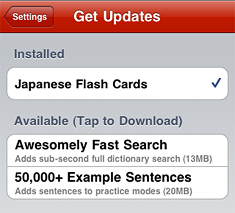
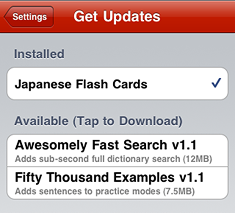
Additional tweaking of updater assets. Some changes to view con labels

diff --git a/jFlash/Assets/plugin-resources/release-notes-1.1.html b/jFlash/Assets/plugin-resources/release-notes-1.1.html
@@ -6,46 +6,57 @@
 <body style="background-color:transparent;">
 
 <div id="release-notes">
-  <h2>Update Dictionary (30MB)</h2>
-  <p>Thanks for Awesomely upgrading to Japanese Flash 1.1!  Now that you have 1.1, you'll need to update your dictionary.</p>
+  <img src="update-dictionary.png" class="title" alt="Update Dictionary"/>
+  <small>Version 1.1, 30MB</small>
+  <p>Thanks for Awesomely upgrading to Japanese Flash 1.1!  Now you have 1.1, you'll need to update your dictionary.</p>
   <p>
-  <strong class="red">Please download &amp; install the latest dictionary by pressing &quot;Start&quot; below.</strong>
+  <strong class="red">Please download &amp; install the latest dictionary by pressing &quot;Start Download&quot;.</strong>
   </p>
-  <p>You'll need a network connection during the download phase, and the entire update should take between 3-5 minutes (we recommend you use WiFi if your carrier charges you for bandwidth usage on 3G).
-  </p>
-  <p>
-  If now is not a convenient time, tap <em>Cancel</em>, and go to the <em>Settings</em> tab when you're ready.
-  </p>
-  <p>
-  You may want to know why you're downloading this update separately. That's a great question. Since you are Awesome (you purchased Japanese Flash after all!), we'll share <em>Our Evil Master Plan</em>.
+  <p>You'll need a network connection during the download phase. The whole process should take between 3-5 minutes (we recommend 
+  using WiFi if you pay for excess data usage on 3G).
   </p>
   <p>
-  We separated the dictionary, example sentences, and other components into &quot;plug-ins&quot; to make it easier to update the data as it changes.
+  If now is not convenient, you can tap <strong>Cancel</strong> for now. When you're ready, go to <strong>Settings</strong> and
+  press the <strong>Update</strong> button on the top right.
+  </p>
+
+  <h3>Why do I have to download something?</h3>
+  <p>
+  That's a great question. Since you are Awesome- after all you purchased Japanese Flash - we'll share our master plan.
   </p>
   <p>
-  For example, if someone finds an error in the dictionary, wouldn't it be great if it was fixed automatically? We are not there yet, but this release is a step in that direction.
+  We have separated the data files (dictionary search, example sentences, etc) into downloadble updates to make it easier to
+  deliver new data as it changes.</p>
+  <p>
+  We all know language changes - so your iPhone study application needs to change with it. So if we receive reports of errors in the dictionary, we 
+  will be able to roll out changes to everyone automatically, without re-installing the application. Cool, right?
   </p>
   <p>
-  So, here are the full details of the new features in Japanese Flash 1.1:
+  That platform isn't quite ready yet - but we are working on it - and this change was a key step along the way.
+  </p>
+  <h3>What's New in Japanese Flash Version 1.1</h3>
+  <p>
   <ul>
   <li>
     <strong>Inline Example Sentences</strong>
     <p>
-    While you are studying, swipe the card to see example sentences!  You'll need to download the example sentences plug-in.  Tap <em>Settings</em>, open the <em>Plugins</em>; section, and tap to download &amp; install the example sentences after this update.</p>
+    When studying, swipe the card to see example sentences. Not every card has sentences, although there are 50,000+ sentences
+    covering 17,000+ cards. You'll need to download the example sentences update. Tap <strong>Settings > Extras</strong> and tap to 
+    download &amp; install the example sentences after this update.</p>
   </li>
   <li>
-    <strong>Custom Study Settings</strong>
+    <strong>Custom Difficulty</strong>
     <p>
-    Some users told us that cards they know are shown too frequently.  Other users told us that somewhat-known cards don't appear often enough. 
-    We make everyone happy by giving you control: tap &quot;Settings&quot; to adjust how Japanese Flash quizzes.  You can set it to <em>Easy</em>, <em>Medium</em>, <em>Hard</em>, or choose your own custom settings.
+    Some users said cards they know are shown too frequently. Other users told us that somewhat-known cards don't appear often enough! 
+    We want everyone to be happy. Tap <strong>Settings > Difficulty</strong> to adjust the difficulty to suit you.
     </p>
   </li>
   <li>
     <strong>Improved Dictionary Quality &amp; Feedback Tool</strong>
     <p>
-    We've improved the quality of the dictionary (what you're downloading right now!).  We've removed a few duplicate cards and fixed a few &quot;word sense&quot; errors.
-    Best of all, we've turned the editorial hand over to you, the user.  The <em>Add To Set</em> button on the Practice screen is now titled <em>Action</em>, and it
-    does two things:
+    We've improved the quality of the dictionary, removed some duplicates and added about 2,000 new entries.
+    Best of all, we've turned the editorial control over to you!<br/><br/>The <strong>Add To Set</strong> button on the practice
+    screen is now titled <strong>Action</strong>, and it does two things:
     </p>
     <p>
     <img src="jflash-1.1-features-actionsheet.png" alt="Action Menu" />
@@ -60,20 +71,20 @@
   <li>
     <strong>Smaller Download Size</strong>
     <p>
-    By creating a plug-in structure, the base of Japanese Flash is now small enough to download &quot;over the air&quot; on a 3G network.  Now, anyone can download 
-    Japanese Flash anywhere, anytime!  Help us spread the word - the more people using JFlash, the stronger the dictionary will become!
+    By creating a system of updates, Japanese Flash app is now small enough to download &quot;over the air&quot; on a 3G network.
+    Now anyone can download Japanese Flash anywhere, anytime! Please spread the word.
     </p>
   </li>
   <li>
     <strong>Follow Us</strong>
     <p>
-    Okay, so it's not really a feature - but if you want to take a break from studying, check out the <em>Follow Us</em> section on the <em>Settings</em> tab.  You can 
-    follow us on Twitter, or view Japanese Flash on Facebook.  We update frequently with what we're doing - if you want to know what'll make it into the next version!
+    Okay, so it's not really a feature - but if you want to take a break from studying, check out  <strong>Settings > Follow Us</strong>.
+    You can follow us on Twitter or join us on Facebook. We'll let you know in advance what's going it into the next version!
     </p>
   </li>
   </ul>
   </p>
-	<p>
+  <p>
   </p>
 </div>
 

diff --git a/jFlash/Assets/plugin-resources/example-sentences.html b/jFlash/Assets/plugin-resources/example-sentences.html
@@ -19,16 +19,16 @@ Press <strong>"start"</strong> below to begin the download and installation (it'
 When you're studying cards, swipe sideways to reveal example sentences. Not every card has example sentences, but many over 17,000 words have examples to read through.
 </p>
 <p>
-We've also indexed all of the key words in these example sentences to be searchable. After installing this plugin, you will be able to find example sentences as well using Search.
+We've also indexed all of the key words in these example sentences to be searchable. After installing this update, you will be able to find example sentences as well using Search.
 </p>
 <h3>Why do I have to download something?</h3>
 <p>
-You may be wondering why we're asking you to download this plugin separately from the application itself. That's a great question! Since you are Awesome (after all, you purchased Japanese Flash), we'll share our master plan.
+You may be wondering why we're asking you to download this update separately from the application itself. That's a great question! Since you are Awesome (after all, you purchased Japanese Flash), we'll share our master plan.
 </p>
 <p>
-We separated the components (dictionary search, example sentences, etc) into plugins to make it easier to update the data as it changes.</p>
+We separated the components (dictionary search, example sentences, etc) into updates to make it easier to deliver new data as it changes.</p>
 <p>
-We all know language changes - so your iPhone study application needs to change with it. So, if we receive reports of errors in the dictionary, we will be able to roll out changes to everyone automatically, without re-installing the application. Cool, right?
+We all know language changes - so your iPhone study application needs to change with it. So if we receive reports of errors in the dictionary, we will be able to roll out changes to everyone automatically, without re-installing the application. Cool, right?
 </p>
 <p>
 That platform isn't quite ready yet - but we are working on it - and this change was a key step along the way.

diff --git a/jFlash/Assets/plugin-resources/full-text-search.html b/jFlash/Assets/plugin-resources/full-text-search.html
@@ -5,12 +5,12 @@
 </head>
 <body style="background-color:transparent;">
 
-<img src="example-sentences.png" border="0" class="title"/>
+<img src="fast-search.png" border="0" class="title"/>
 <small>Version 1.1 (12MB)</small>
 
 <div id="release-notes">
 <p>
-Japanese Flash is more than just a flash card program.  When you download &amp; install this plugin, it's also blazingly fast dictionary that can search 150,000 entries in less than a second.
+Japanese Flash is more than just a flash card program.  When you download &amp; install this update, it's also blazingly fast dictionary that can search 150,000 entries in less than a second.
 </p>
 <p>
 Press <strong>"start"</strong> below to begin the download and installation (it's free, of course!). Make sure you have a good network connection, preferably WiFi or 3G.</p>
@@ -24,9 +24,9 @@ Once you've found a particular result that is interesting, or you want to rememb
 </p>
 <h3>Why do I have to download something?</h3>
 <p>
-We separated the components (dictionary search, example sentences, etc) into plugins to make it easier to update the data as it changes.</p>
+We separated the components (dictionary search, example sentences, etc) into downloadable updates to make it easier to deliver new data as it changes.</p>
 <p>
-We all know language changes - so your iPhone study application needs to change with it. So, if we receive reports of errors in the dictionary, we will be able to roll out changes to everyone automatically, without re-installing the application. Cool, right?
+We all know language changes - so your iPhone study application needs to change with it. So if we receive reports of errors in the dictionary, we will be able to roll out changes to everyone automatically, without re-installing the application. Cool, right?
 </p>
 <p>
 That platform isn't quite ready yet - but we are working on it - and this change was a key step along the way.

diff --git a/jFlash/Assets/plugin-resources/plugins.css b/jFlash/Assets/plugin-resources/plugins.css
@@ -9,4 +9,5 @@ p { margin:9px 0 9px 0; padding:2px 0; line-height:17px; }
 h3, h2 { line-height:25px; padding-bottom:0px;  margin-bottom:0px; color:olive;}
 h3 { line-height:20px; }
 #release-notes {width:290px;padding-left:5px;font-size:14px;line-height:15px;}
-small { font-size:9px; color:darkslategray;}
+small { font-size:11px; color:darkslategray;}
+ol, ul { padding-left:23px; }

diff --git a/jFlash/Assets/help/help.css b/jFlash/Assets/help/help.css
@@ -7,3 +7,4 @@ a, a:visited { color:#834320; font-weight:bold;}
 div.info {min-height:350px; text-align:left;}
 p { margin:9px 0 9px 0;}
 #tags_definitions { font-size:13px; border:1px solid darkslategray; cell-collapse:true; border-spacing: 2px 2px;}
+small { font-size:11px; color:darkslategray;}

diff --git a/jFlash/Classes/AppSpecific/PluginManager.m b/jFlash/Classes/AppSpecific/PluginManager.m
@@ -24,6 +24,7 @@
                           // Cards
                           [NSDictionary dictionaryWithObjectsAndKeys:
                            CARD_DB_KEY,@"plugin_key",
+                           @"1.1",@"plugin_version",
                            @"Japanese Flash Cards",@"plugin_name",
                            @"Core cards",@"plugin_details",
                            @"plugin-resources",@"plugin_notes_dir",
@@ -36,6 +37,7 @@
                            // FTS
                            [NSDictionary dictionaryWithObjectsAndKeys:
                             FTS_DB_KEY,@"plugin_key",
+                            @"1.1",@"plugin_version",
                             @"Awesomely Fast Search v1.1",@"plugin_name",
                             @"plugin-resources",@"plugin_notes_dir",
                             @"full-text-search",@"plugin_notes_file",
@@ -48,7 +50,8 @@
                            // Example sentences
                            [NSDictionary dictionaryWithObjectsAndKeys:
                             EXAMPLE_DB_KEY,@"plugin_key",
-                            @"50,000+ Example Sentences v1.1",@"plugin_name",
+                            @"1.1",@"plugin_version",
+                            @"Fifty Thousand Examples v1.1",@"plugin_name",
                             @"plugin-resources",@"plugin_notes_dir",
                             @"example-sentences",@"plugin_notes_file",
                             @"Adds sentences to practice modes (7.5MB)",@"plugin_details",

diff --git a/jFlash/Classes/AppSpecific/StudyViewController.m b/jFlash/Classes/AppSpecific/StudyViewController.m
@@ -46,7 +46,7 @@
   if (state.isFirstLoad && !_alreadyShowedAlertView)
   {
     UIAlertView* alertView = [[UIAlertView alloc] initWithTitle:NSLocalizedString(@"Welcome to Japanese Flash!",@"StudyViewController.WelcomeAlertViewTitle")
-                                                        message:NSLocalizedString(@"To get you started, we've loaded our favorite words as an example.   To study other sets, tap the 'Study Sets' tab below.",@"RootViewController.WelcomeAlertViewMessage")
+                                                        message:NSLocalizedString(@"We've loaded our favorite word set to get you started. If you want to study other sets, tap the 'Study Sets' tab below.",@"RootViewController.WelcomeAlertViewMessage")
                                                        delegate:self
                                               cancelButtonTitle:NSLocalizedString(@"OK",@"Global.OK") otherButtonTitles:nil];
     [alertView show];

diff --git a/jFlash/Classes/AppSpecific/RootViewController.m b/jFlash/Classes/AppSpecific/RootViewController.m
@@ -160,13 +160,13 @@
 - (void) showUpdaterModal
 {
   ModalTaskViewController *updateVC = [[ModalTaskViewController alloc] initWithNibName:@"ModalTaskView" bundle:nil];
-  [updateVC setTitle:NSLocalizedString(@"Update Dictionary",@"ModalTaskViewController_Update.NavBarTitle")];
+  [updateVC setTitle:NSLocalizedString(@"Dictionary Update",@"ModalTaskViewController_Update.NavBarTitle")];
   [[NSNotificationCenter defaultCenter] addObserver:updateVC selector:@selector(updateDisplay) name:@"MigraterStateUpdated" object:nil];
   // Set task parameters
   [updateVC setShowDetailedViewOnAppear:YES];
   [updateVC setStartTaskOnAppear:NO];
   [updateVC setWebViewContentDirectory:@"plugin-resources"];
-  [updateVC setWebViewContentFileName:@"release-notes"];
+  [updateVC setWebViewContentFileName:@"release-notes-1.1"];
   VersionManager *tmpVm = [[VersionManager alloc] init];
   [updateVC setTaskHandler:tmpVm];
   [tmpVm release];
